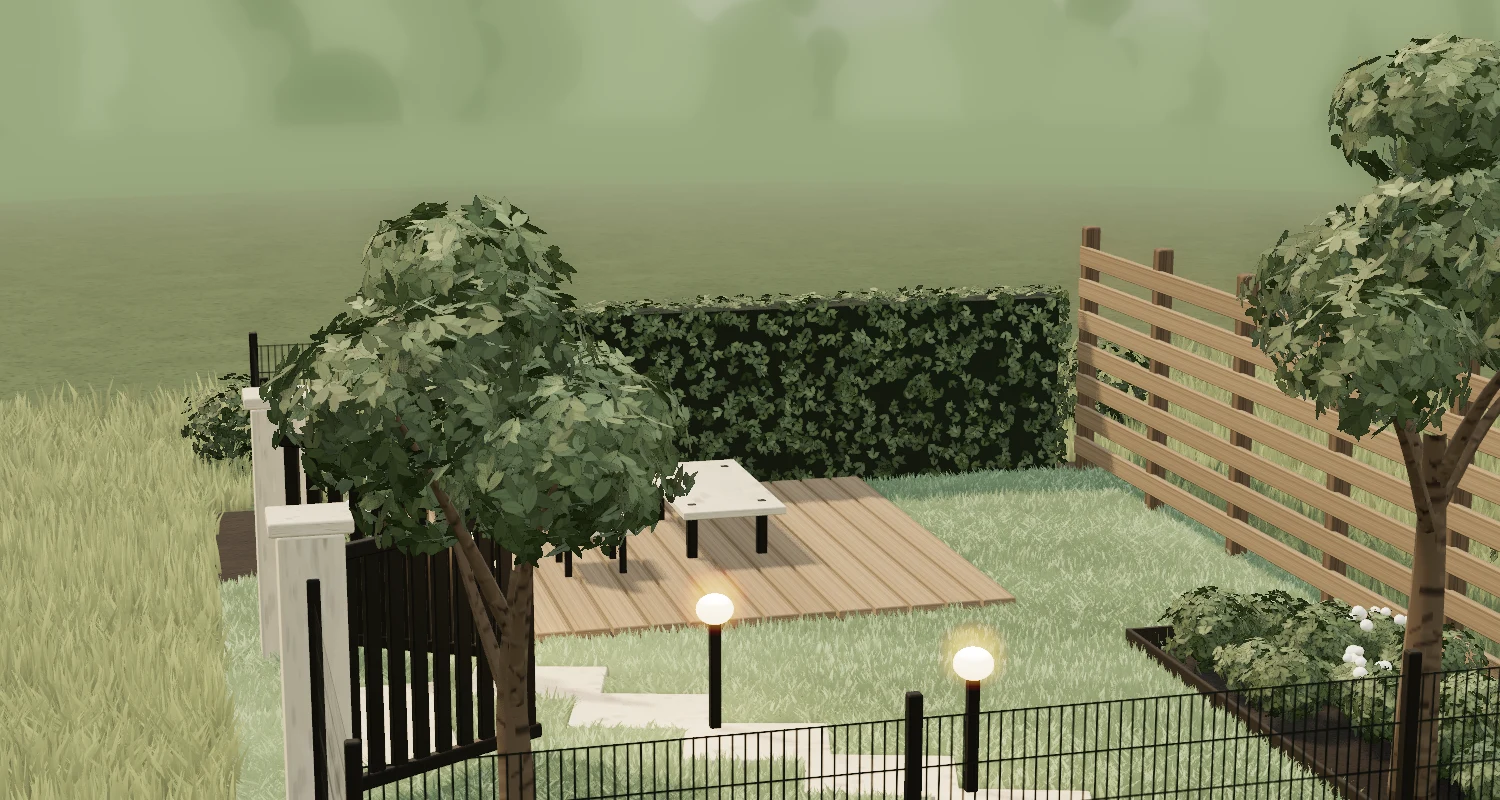
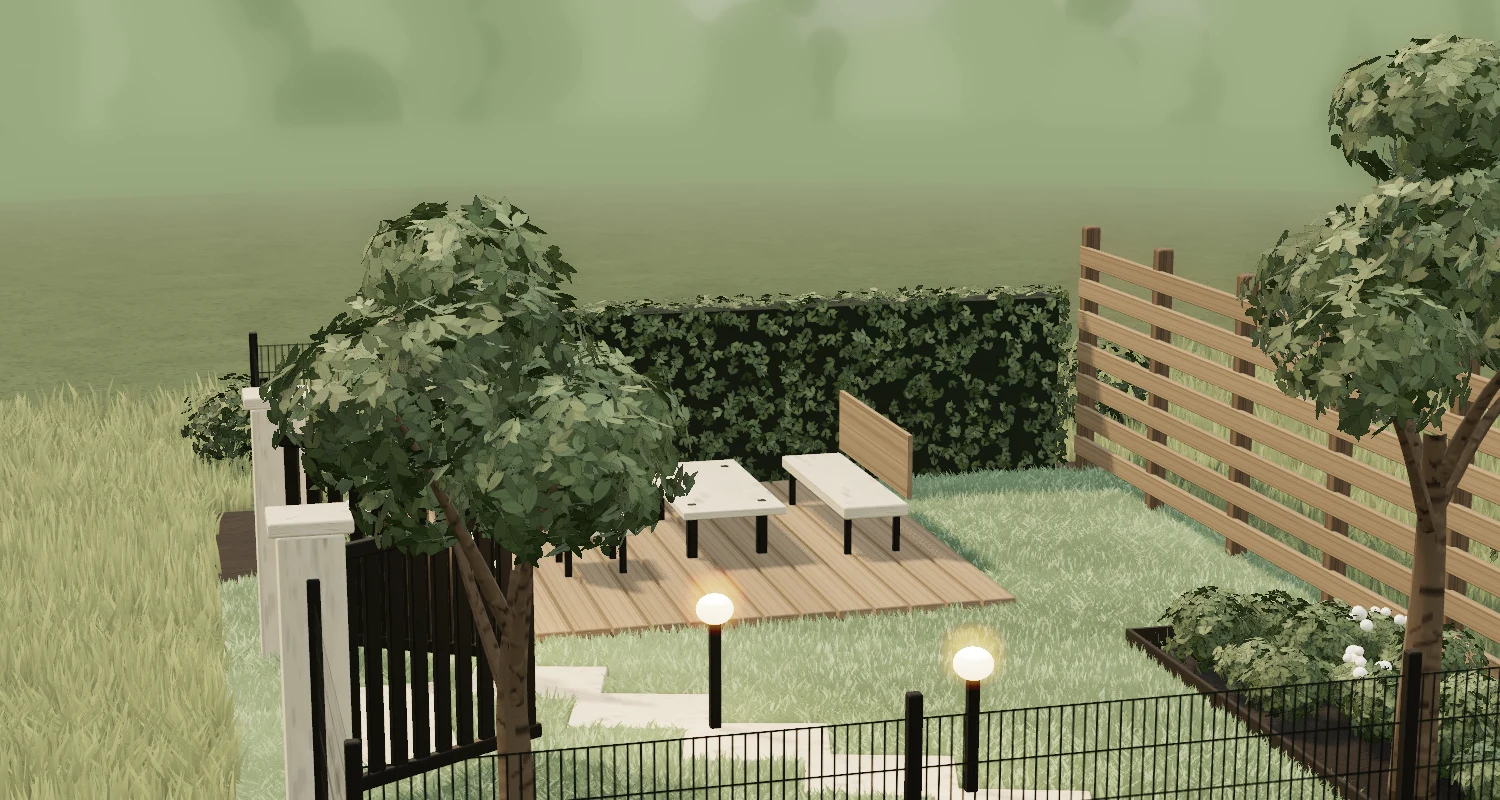
💄 Update scene with missing chair

Changed region(s): [[0.5213, 0.4688, 0.6747, 0.7188]]

diff --git a/components/garden-scene/furniture.ts b/components/garden-scene/furniture.ts
@@ -33,6 +33,14 @@ function buildChairs(builder: GardenBuilder, materials: BuildMaterials) {
   });
 }
 
+function buildBench(builder: GardenBuilder, materials: BuildMaterials) {
+  builder.box(-2.5, 0.44, -0.8, 1.6, 0.09, 0.45, materials.stone, 0.84);
+  builder.box(-2.5, 0.73, -1.03, 1.6, 0.44, 0.035, materials.wood, 0.85);
+  [-3.2, -1.8].forEach((x) => {
+    [-0.97, -0.63].forEach((z) => builder.box(x, 0.27, z, 0.045, 0.36, 0.045, materials.darkMetal, 0.83));
+  });
+}
+
 function buildLamps(builder: GardenBuilder, materials: BuildMaterials) {
   const bulbMaterial = createStandardMaterial({ color: 0xf2ede2, emissive: 0xffd9a0, emissiveIntensity: 0 });
   const bulbGeometry = new SphereGeometry(1, 18, 12);
@@ -59,5 +67,6 @@ function buildLamps(builder: GardenBuilder, materials: BuildMaterials) {
 export function buildFurniture(builder: GardenBuilder, materials: BuildMaterials): Furniture {
   buildLoungeTable(builder, materials);
   buildChairs(builder, materials);
+  buildBench(builder, materials);
   return buildLamps(builder, materials);
 }
